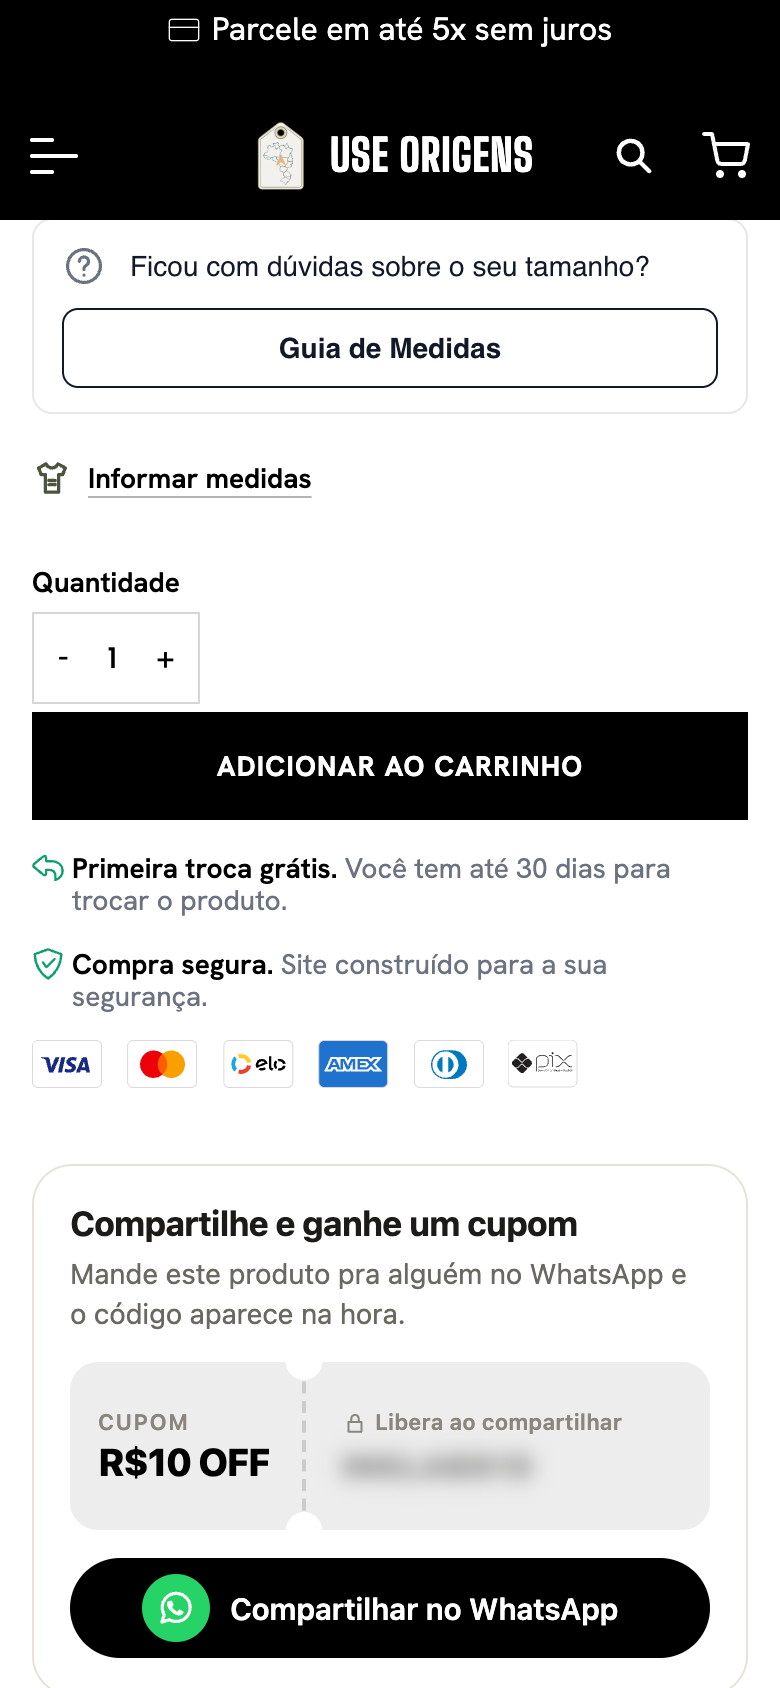
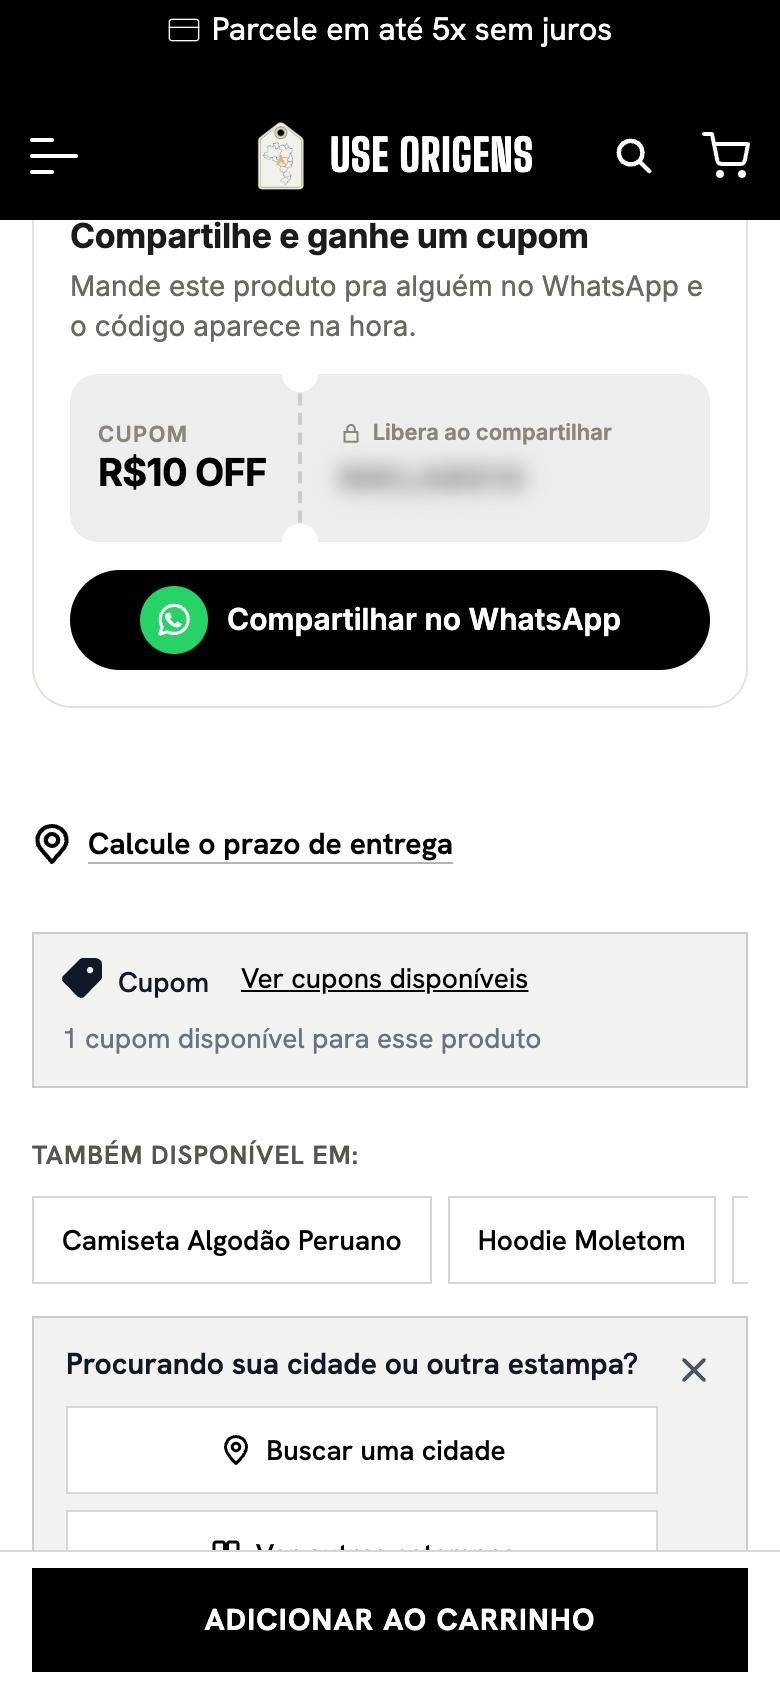
fix(pdp-coupons): a cor da loja clareada em oklch, não misturada com branco
A cor da Sul (#4d543d) é pouco saturada: misturada com branco virava cinza.
Agora é a mesma cor (matiz e intensidade) só mais clara; a mistura fica de
reserva para navegador sem cor relativa.

diff --git a/src/loader/pdp-offers.js b/src/loader/pdp-offers.js
@@ -318,8 +318,10 @@ export const PDP_COUPONS = String.raw`
   const CPN_CSS = [
     '.o-cpn{--o-cpn-ink:var(--o-ink,#1f2328);--o-cpn-soft:var(--o-ink-soft,#3f3f3a);--o-cpn-mute:var(--o-ink-mute,#5f5f58);--o-cpn-line:var(--o-line-soft,rgba(31,35,40,.16));',
     '--o-cpn-paper:var(--o-paper,#f4f4f2);--o-cpn-surface:var(--o-surface,#fff);--o-cpn-radius:var(--o-radius,8px);',
-    // A cor principal da loja (--o-selected do tema) num tom suave, como o fundo do escolhido no tema; sem tema, um neutro. Sem color-mix, o cinza acima.
+    // A cor principal da loja (--o-selected do tema) clareada: a MESMA cor (matiz e intensidade em oklch), só mais clara. Misturar com branco não
+    // serve: a cor da Sul (#4d543d) é pouco saturada e a mistura vira cinza. Sem cor relativa no navegador, a mistura; sem color-mix, o cinza.
     '--o-cpn-paper:color-mix(in srgb,var(--o-selected,#1f2328) 20%,var(--o-surface,#fff));--o-cpn-line:color-mix(in srgb,var(--o-selected,#1f2328) 40%,var(--o-surface,#fff));',
+    '--o-cpn-paper:oklch(from var(--o-selected,#1f2328) .94 calc(c * 1.25) h);--o-cpn-line:oklch(from var(--o-selected,#1f2328) .8 calc(c * 1.25) h);',
     'display:block;box-sizing:border-box;width:100%;margin:0;color:var(--o-cpn-ink);font-family:var(--o-font,inherit);text-align:left;container-type:inline-size}',
     '.o-cpn *{box-sizing:border-box}',
     '.o-cpn [hidden],.o-cpn[hidden]{display:none!important}',
@@ -356,7 +358,8 @@ export const PDP_COUPONS = String.raw`
     '.o-cpn-near{display:block;box-sizing:border-box;width:100%;margin:0;font-family:var(--o-font,inherit);text-align:left}',
     '.o-cpn-toggle{display:inline-flex;align-items:center;gap:8px;min-height:44px;margin:0;padding:0 14px;border:1px solid var(--o-line-soft,rgba(31,35,40,.16));',
     'border-color:color-mix(in srgb,var(--o-selected,#1f2328) 40%,var(--o-surface,#fff));border-radius:var(--o-radius,8px);background:var(--o-paper,#f4f4f2);',
-    'background:color-mix(in srgb,var(--o-selected,#1f2328) 20%,var(--o-surface,#fff));color:var(--o-ink,#1f2328);font:inherit;font-size:14px;font-weight:600;line-height:1.2;',
+    'background:color-mix(in srgb,var(--o-selected,#1f2328) 20%,var(--o-surface,#fff));border-color:oklch(from var(--o-selected,#1f2328) .8 calc(c * 1.25) h);',
+    'background:oklch(from var(--o-selected,#1f2328) .94 calc(c * 1.25) h);color:var(--o-ink,#1f2328);font:inherit;font-size:14px;font-weight:600;line-height:1.2;',
     'cursor:pointer;-webkit-tap-highlight-color:transparent}',
     '.o-cpn-toggle > span{display:inline-flex;align-items:center}',
     '.o-cpn-toggle > span:first-child,.o-cpn-tab > span:first-child{color:var(--o-selected,currentColor)}',

diff --git a/docs/cep-cupons-pdp.md b/docs/cep-cupons-pdp.md
@@ -9,8 +9,9 @@ apareciam como "Cupom · Ver cupons disponíveis" e abriam outro modal. Agora as
   economiza nesta peça, as faixas do progressivo e as condições, com o botão "Copiar". Desde 30/10/2026 as abas ficam **logo abaixo do preço**,
   fechadas atrás de um botão "Cupons disponíveis" (com o número de cupons) ou "Cupom disponível", para ficar perto do preço sem ocupar espaço. O quadro
   de cupons lá de baixo some. Sem o preço na página (marcação diferente da INK), as abas ficam à vista dentro do frame, como antes.
-  O botão e a caixa usam a cor principal da loja (`--o-selected` do tema) num tom suave: 20% no fundo e 40% na borda, o mesmo tom dos blocos de
-  incentivo do carrinho. O ícone e o contador vão na cor cheia. Sem o tema, o tom é neutro. Sem cupom na INK, nem o botão aparece.
+  O botão e a caixa usam a cor principal da loja (`--o-selected` do tema) clareada: a mesma cor em oklch (matiz e intensidade ×1,25), com
+  luminosidade 0,94 no fundo e 0,80 na borda. Misturar com branco não serve: a cor da Sul (#4d543d) é pouco saturada e a mistura vira cinza. Sem cor
+  relativa no navegador, a mistura com branco; sem tema, um tom neutro. O ícone e o contador vão na cor cheia. Sem cupom na INK, nem o botão aparece.
 
 Cada um tem a sua chave em `WIDGET_FEATURES` (opt-in). Desligada, nem o módulo entra no loader, e o link e o quadro da INK ficam como sempre foram.
 
